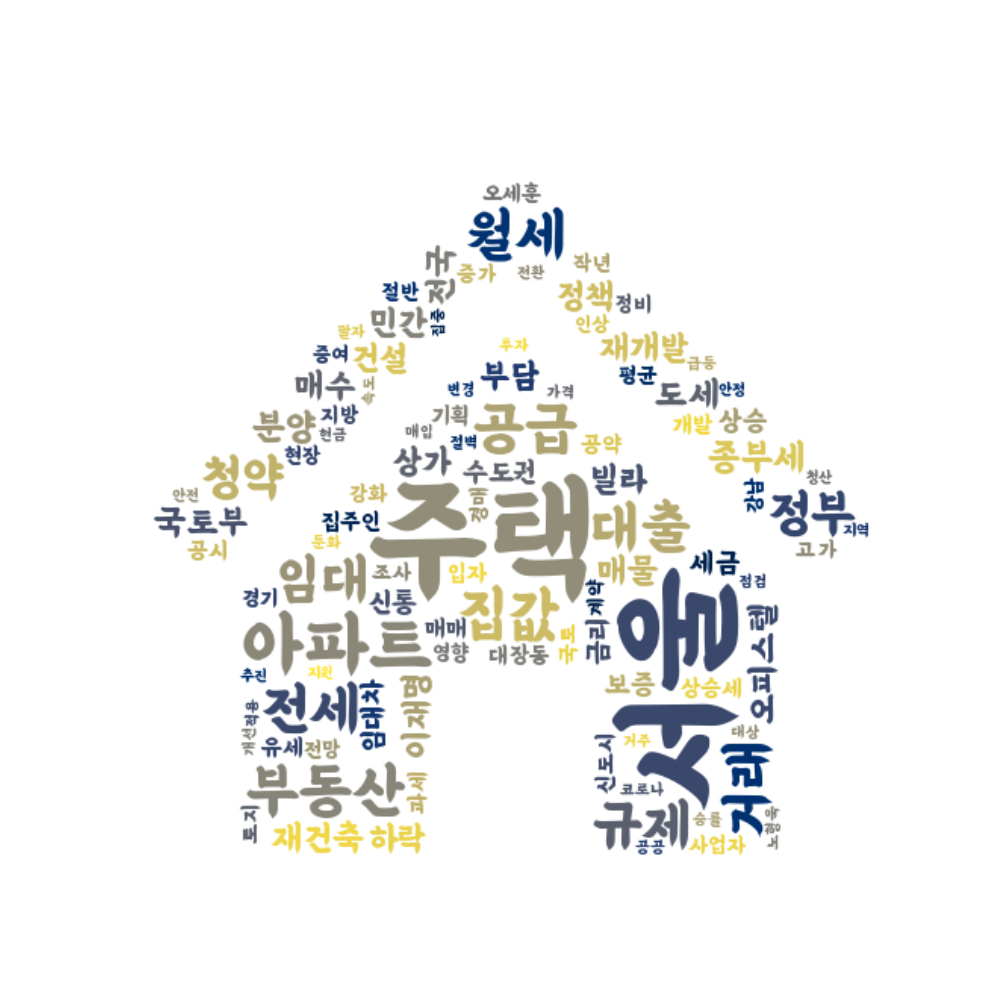
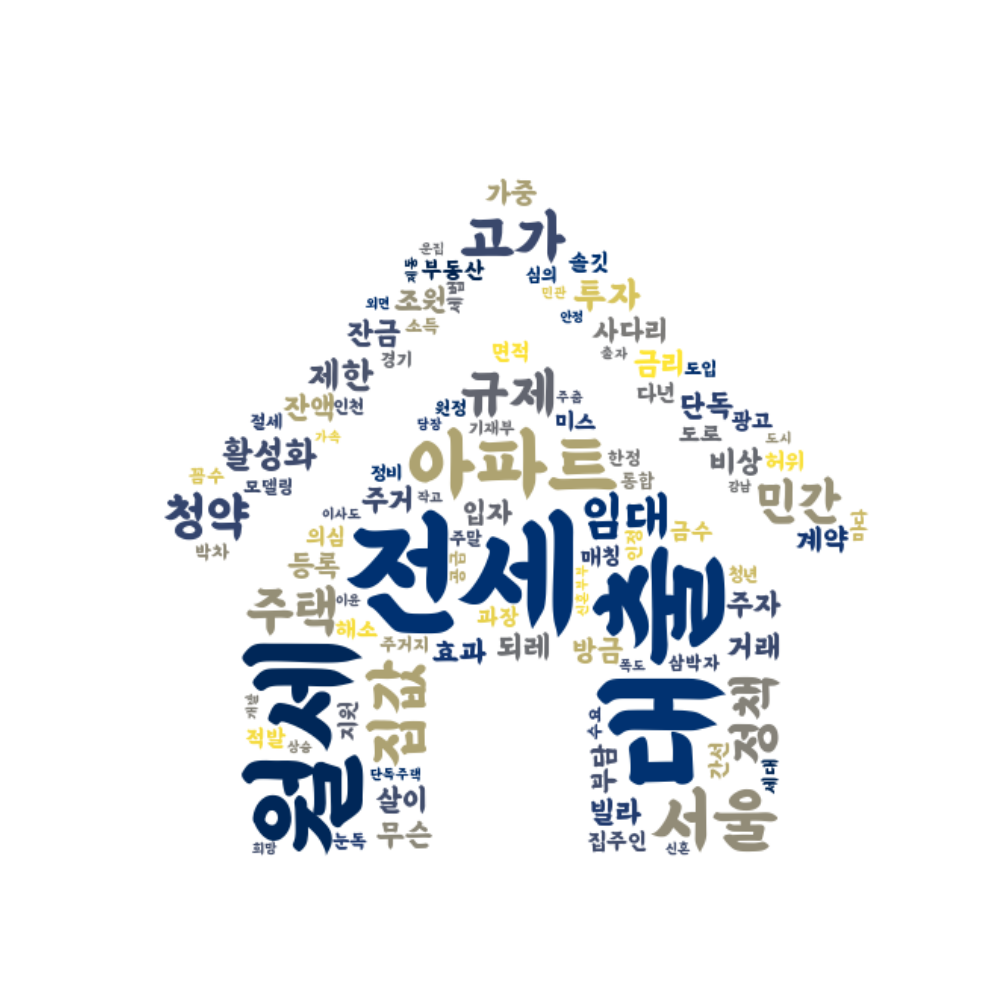
220128_0445

Changed region(s): [[0.217, 0.341, 0.806, 0.868], [0.155, 0.155, 0.868, 0.558]]

diff --git a/ais/templates/chatbot/chatting.html b/ais/templates/chatbot/chatting.html
@@ -131,7 +131,7 @@ function send() {
         <div style='margin: 0px auto;'>
             메시지
             <input id="chatting" name='chatting' placeholder="보내실 메시지를 입력하세요." 
-                   value="오전에 탕수육 10개 주문합니다."></th>
+                   value="안녕하세요"></th>
             <button onclick="send()" id="sendBtn" class="btn btn-info">보내기</button></th>
         </div>
     </div>

diff --git a/news/templates/trend_image.html b/news/templates/trend_image.html
@@ -1,0 +1,10 @@
+<!DOCTYPE html>
+<html lang="en">
+<head>
+    <meta charset="UTF-8">
+    <title>Title</title>
+</head>
+<body>
+    <img style="display: block; margin: 0px auto;" src="../static/images/news-wordcloud.png"  width="700" height="700">
+</body>
+</html>

diff --git a/news/templates/index.html b/news/templates/index.html
@@ -394,7 +394,6 @@
         </ul>
       </div>
     </div>
-    <A href='"+Member.LIST_FILE+"?&word="+word+"&now_page="+_now_page'>이전</A></span>")
     <div class="panel-footer" style="margin-top:auto; text-align: center;">
       Crawling by Django.
     </div>

diff --git a/news/templates/test_image.html b/news/templates/test_image.html
@@ -1,0 +1,1 @@
+<img style="display: block; margin: 0px auto;" src="../static/images/news-wordcloud.png"  width="700" height="700">

diff --git a/news/tests.py b/news/tests.py
@@ -1,1 +1,192 @@
+import base64
+from io import BytesIO
+
+import json
+import pickle
+import time
+import random
+
+from django.http import HttpResponse, HttpResponseRedirect
+from django.shortcuts import render
+from django.urls import reverse
+from django.core import serializers
+
+# Crawling 관련 module
+# ----------------------------------------------------------------------------------------------
+from bs4 import BeautifulSoup
+from urllib.request import urlopen
+from urllib.parse import quote  # 한글 처리 함수
+from urllib.error import HTTPError
+from requests import get  # GET 방식 호출
+
+from datetime import datetime
+
+# Wordcloud 관련
+# ----------------------------------------------------------------------------------------------
+import os
+import pandas as pd
+import pymysql
+import re
+import platform
+from PIL import Image
+import numpy as np
+
+from konlpy.tag import Twitter
+from collections import Counter
+from nltk.corpus import stopwords
+from nltk.tokenize import word_tokenize
+from konlpy.tag import Okt
+from collections import Counter
+from wordcloud import WordCloud
+import matplotlib.pyplot as plt
+from matplotlib import rc
+
+rc('font', family='Malgun Gothic')
+plt.rcParams["font.size"] = 12  # 글자 크기
+plt.rcParams['axes.unicode_minus'] = False  # minus 부호는 unicode 적용시 한글이 깨짐으로 설정
+
 # Create your tests here.
+print("데이터 분석 시작")
+conn = pymysql.connect(host='localhost', user='pyuser', password='1234',
+                           db='team5', charset='utf8')
+
+cursor = conn.cursor()
+sql_pre = '''
+    SELECT COUNT(newsno) AS cnt
+    FROM news_news
+    '''
+cursor.execute(sql_pre)
+row = cursor.fetchone()
+
+if row[0] != 0:
+    sql = '''
+         SELECT newsno, article, link, ymd, rdate
+         FROM news_news
+         ORDER BY newsno ASC
+       '''
+    df = pd.read_sql(sql, conn)
+
+    cursor.close()
+    conn.close()
+
+    # 기사 제목
+    articles = df['article']
+
+    # 기사 제목에서 번호를 삭제
+    # print("-> 기사 제목에서 번호를 삭제")
+    for i in range(0, len(articles)):
+        article = articles[i]
+        dot_index = article.find('.')
+        article = article[dot_index + 2:]
+        articles[i] = article
+
+    # 모든 기사에서 불필요한 문자 제거
+    # print("-> 모든 기사에서 불필요한 문자 제거")
+    for i in range(0, len(articles)):
+        article = articles[i]
+        article = re.sub('[.]+', ' ', article)
+        article = re.sub('[0-9]+', '', article)
+        article = re.sub('[A-Za-z]+', '', article)
+        article = re.sub('[-=+,#/\?:^$@*\“\”\"※~&%ㆍ·!』\\‘’|\(\)\[\]\<\>`\'…》↑→]', '', article)
+        articles[i] = article
+        # print('#', end="")
+
+    # print("-> 모든 데이터 하나의 문자열로 통합")
+    article_all = ''
+    for i in range(len(articles)):
+        article_all = article_all + ' ' + articles[i]
+
+    # print("-> 명사 추출")
+    okt = Okt()  # 형태소 분석 지원 클래스
+    article_all_nouns = okt.nouns(article_all)
+
+    # 한문자는 모두 삭제함.
+    # print("-> 2문자 이상만 대상으로 선정")
+    article_all_nouns2 = []
+    for item in article_all_nouns:
+        if len(item) >= 2:
+            article_all_nouns2.append(item)
+
+    # 불용어
+    STOPWORDS = ['내년', '시장', '완화', '사전', '사업', '올해',
+                 '만원', '검토', '기준', '역대', '심리', '개월', '최저',
+                 '최대', '이상', '폭탄', '가구', '논란', '대충', '지난해',
+                 '오늘', '부로', '산시', ]
+
+    # print("-> 불용어 제거")
+    filtered = []  # 불용어 제거
+    for tag in article_all_nouns2:
+        if tag not in STOPWORDS:
+            filtered.append(tag)
+
+    # print("-> 같은 맥락의 단어 통합")
+    # 중복 의미를 갖는 데이터 정제하기, 마지막[-1] index에 대표 문자열 지정
+    WORDS = [
+        ['마련', '내집마련'],
+        ['서울시', '서울'],
+    ]
+
+    # for문을 이용한 모든 데이터의 처리
+    filtered_words = filtered.copy()
+    for i in range(len(filtered_words)):
+        word = filtered_words[i]  # 하나의 태그 추출
+        for j in range(len(WORDS)):
+            if word in WORDS[j] and tag != '':  # 맥락이 같은 단어 검사
+                word = WORDS[j][-1]  # 대표 단어를 산출
+                filtered_words[i] = word  # 대표 단어로 변경
+
+    # 빈도 분석
+    # print("-> 빈도수가 높은 100위까지 출력")
+    tags_counter = Counter(filtered_words)
+    most_common = tags_counter.most_common(100)  # 빈도수가 높은 100위까지 출력
+    # print(most_common)
+
+    # print("-> 워드클라우드용 데이터인 DataFrame 생성")
+    df = pd.DataFrame(most_common)
+    df.columns = ['tags', 'counts']
+
+    # print("-> 워드클라우드 이미지 제작중...")
+
+    # if platform.system() == 'Windows':  # 윈도우의 경우
+    #     font_path = "C:/Windows/Fonts/malgun.ttf"
+    # elif platform.system() == "Darwin":  # Mac 의 경우
+    #     font_path = "/Users/$USER/Library/Fonts/AppleGothic.ttf"
+
+    # maskimg = np.array(Image.open('/static/images/wc_home.jpg'))
+
+    img = np.array(Image.open('./news/static/images/home_3.jpg'))
+    mask = np.array(img)
+    # image_colors = ImageColorGenerator(img)
+
+    wordcloud = WordCloud(font_path='./news/static/font/BMEULJIROTTF.ttf',
+                          background_color="white",
+                          max_words=100,
+                          relative_scaling=0.3,
+                          width=800,
+                          height=800,
+                          mask=mask,
+                          colormap="cividis",
+                          random_state=42,
+
+                          ).generate_from_frequencies(tags_counter)
+    plt.figure(figsize=(10, 10))
+    # plt.imshow(wordcloud.recolor(color_func=image_colors), interpolation='bilinear')
+    plt.imshow(wordcloud, interpolation='bilinear')
+    plt.axis('off')
+    # plt.show()
+    # plt.savefig('./news-wordcloud1.png')
+
+    # 현재 프로젝트 static 폴더 기준으로 선언해야 인식됨.
+    fname_django = './news/static/images/news-wordcloud.png'
+    fname_spring = 'C:/kd1/ws_java/team5_v2sbm3c/src/main/resources/static/trend/images/news-wordcloud.png'
+    if os.path.exists(fname_django):
+        # print("기존에 생성된 news-wordcloud.png 파일을 삭제했습니다.")
+        os.remove(fname_django)
+
+    if os.path.exists(fname_spring):
+        # print("기존에 생성된 news-wordcloud.png 파일을 삭제했습니다.")
+        os.remove(fname_spring)
+
+    # print('Wordcloud 이미지 파일로 저장')
+    plt.savefig(fname_django)  # django Wordcloud 이미지 파일로 저장
+    #plt.savefig(fname_spring)  # spring Wordcloud 이미지 파일로 저장

diff --git a/news/views.py b/news/views.py
@@ -207,6 +207,9 @@ def delete_all(request):
 
     return HttpResponse(json.dumps(data), content_type="application/json")
 
+# def trend_image(request):
+#     print("이미지 생성")
+#     return render(request, 'trend_image.html')
 
 def trend_analysis(request):
     print("데이터 분석 시작")
@@ -340,7 +343,7 @@ def trend_analysis(request):
         # plt.savefig('./news-wordcloud1.png')
 
         # 현재 프로젝트 static 폴더 기준으로 선언해야 인식됨.
-        fname_django = 'C:/kd1/ws_python/Team5/news/static/images/news-wordcloud.png'
+        fname_django = './news/static/images/news-wordcloud.png'
         fname_spring = 'C:/kd1/ws_java/team5_v2sbm3c/src/main/resources/static/trend/images/news-wordcloud.png'
         if os.path.exists(fname_django):
             # print("기존에 생성된 news-wordcloud.png 파일을 삭제했습니다.")
@@ -357,6 +360,31 @@ def trend_analysis(request):
         data = {
             "code": 1,
             "msg": "데이터분석을 완료했습니다.",
+        }
+    else:
+        data = {
+            "code": 0,
+            "msg": "분석할 데이터가 없습니다. 데이터를 수집해주세요.",
+        }
+    return HttpResponse(json.dumps(data), content_type="application/json")
+
+def analysis_result(request):
+    print("분석결과 조회")
+    conn = pymysql.connect(host='localhost', user='pyuser', password='1234',
+                           db='team5', charset='utf8')
+
+    cursor = conn.cursor()
+    sql_pre = '''
+        SELECT COUNT(newsno) AS cnt
+        FROM news_news
+        '''
+    cursor.execute(sql_pre)
+    row = cursor.fetchone()
+
+    if row[0] != 0:
+        data = {
+            "code": 1,
+            "msg": "분석결과를 조회했습니다.",
         }
     else:
         data = {

diff --git a/news/urls.py b/news/urls.py
@@ -17,6 +17,9 @@ urlpatterns = [
     path('delete_all', views.delete_all, name='delete_all'),
     # http://127.0.0.1:8000/news/trend_analysis
     path('trend_analysis', views.trend_analysis, name='trend_analysis'),
+    # http://127.0.0.1:8000/news/analysis_result
+    path('analysis_result', views.analysis_result, name='analysis_result'),
     path('test', views.test, name='test'),
     path('home', views.home, name='home'),
+    # path('trend_image', views.trend_image, name='trend_image'),
 ]
